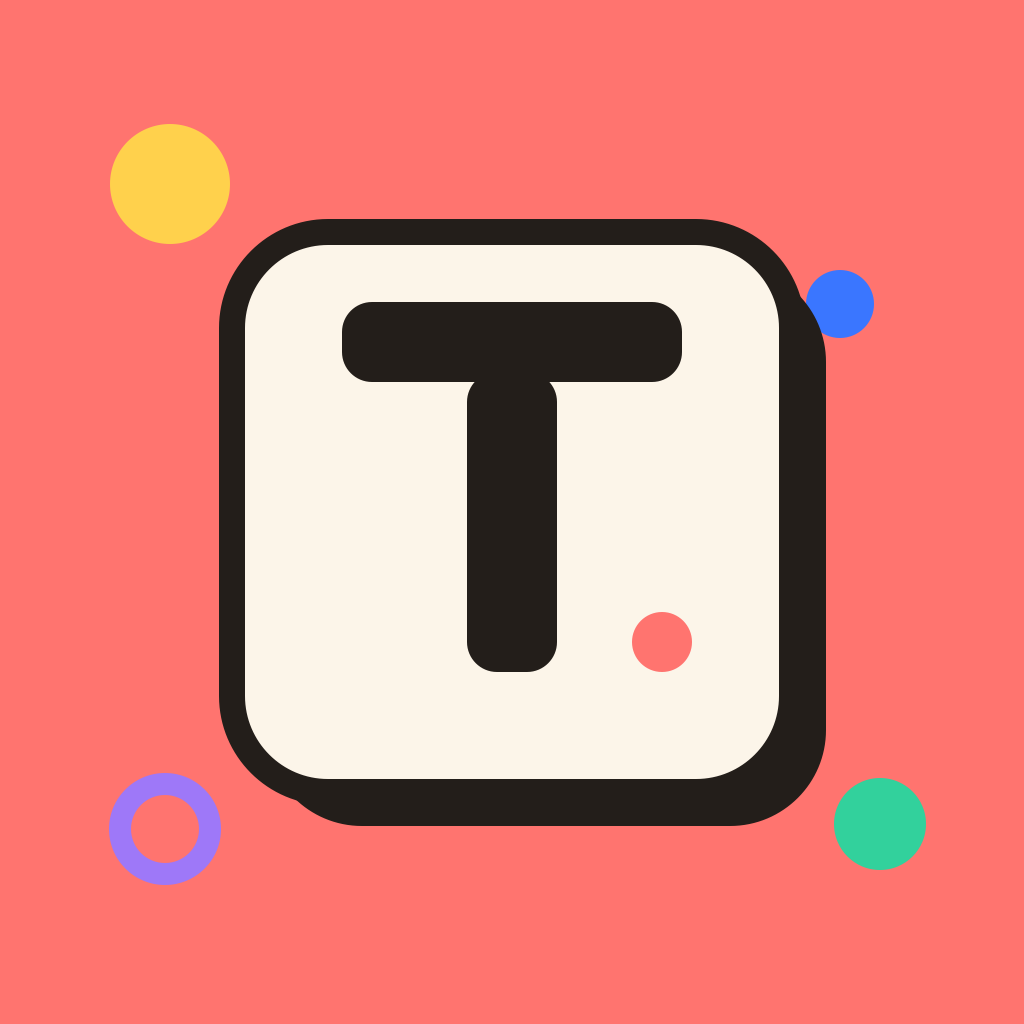
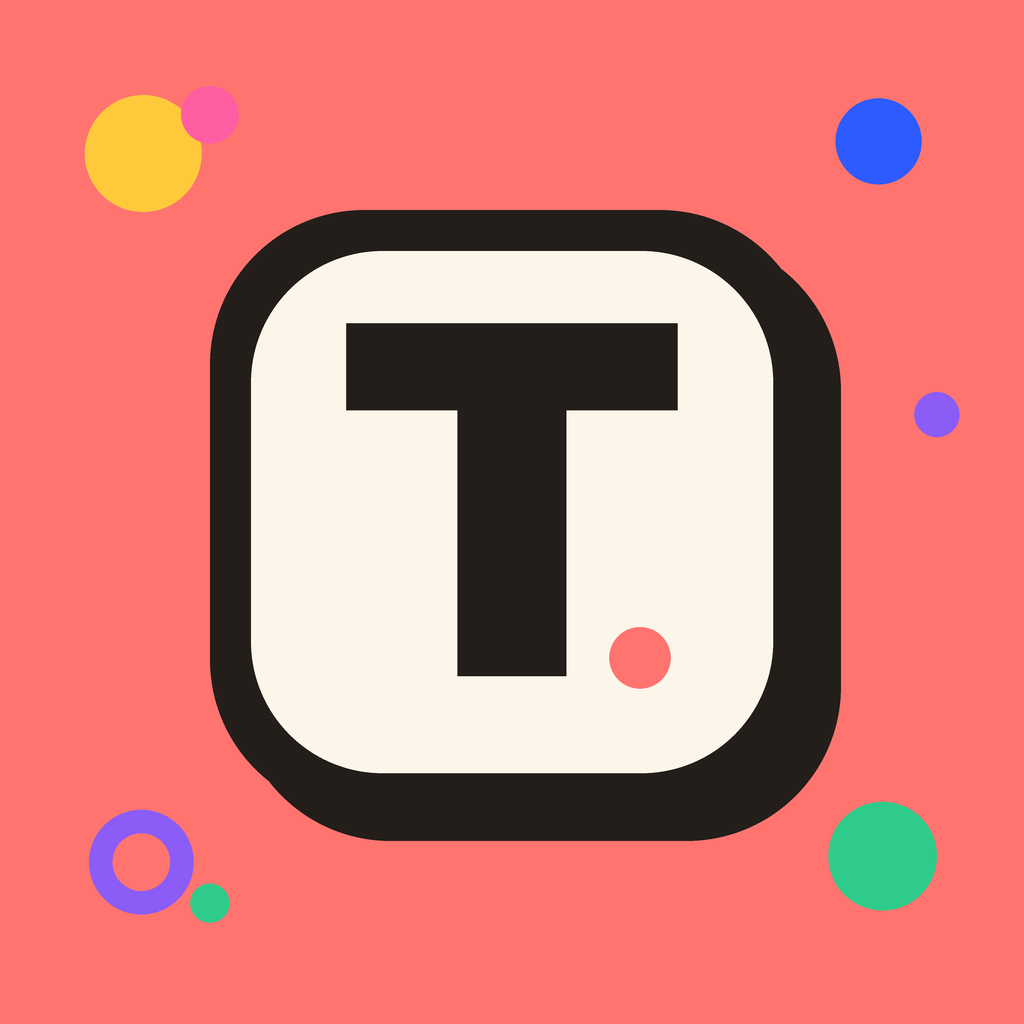
corpus: finish whole-corpus delight on Haiku (no Opus) — 15,318 delightful
Mops up the last 20 expansion batches (187-206, ~800 questions) that were still
robotic-but-correct after the previous ship, completing Ben's "make every question
delightful" pass across the entire 21,005-row corpus.

ECONOMY (Ben's directive — stop burning Opus 4.8 on grounded paraphrasing): the 20
batches were rewritten by a 20-agent workflow on HAIKU 4.5 (model:'haiku',
effort:'low') in ~137s for ~645k Haiku tokens and ZERO Opus tokens. Sample output
reads hand-written ("Nicknamed 'The Flying Finn'...", "Its Syriac name means simply
'sword'..."). This is now the standing method for all future expansion delight.

apply_delight.py merged all 464 batch files -> 15,318 delightful rewrites applied
(was 14,593); leak-guard kept 984 leaked-answer + 902 malformed on their robotic
originals — we never ship a question that names its own answer. One Haiku JSON slip
({"id":"question":"SKIP"}) was repaired + the out-files revalidated before applying.

Regenerated all 8 bundled sets. Version 1.3.2 (build 28) / Android versionCode 25,
versionName 1.3.2. iOS, tvOS, Android all build green.

Claude-Session: https://claude.ai/code/session_01HzchzVGVxky2CRiHkA2Gx7

diff --git a/docs/DELIGHT-PASS-HANDOFF.md b/docs/DELIGHT-PASS-HANDOFF.md
@@ -13,7 +13,24 @@ answerable with the existing type-matched options. Pipeline:
 batch files of {id, answer, options, summary} → LLM rewrites → `apply_delight.py`
 (leak-guarded merge) → regenerate `gen_*.py` → build → ship.
 
-## Current state (2026-06-22, ~9am MT)
+## ✅ COMPLETE (2026-06-22, v1.3.2)
+
+The whole-corpus delight pass is DONE. The final 20 expansion batches (187–206)
+were rewritten on **Haiku 4.5** (workflow `wf_acfcac11-26a`, 20 agents, ~137s,
+~645k Haiku tokens — the economical path Ben asked for; no Opus). `apply_delight.py`
+now merges all 464 batch files → **15,318 delightful rewrites applied** (984
+leaked-answer + 902 malformed kept their robotic original via the leak-guard). All
+four platforms build green at 1.3.2 / build 28 / Android v25.
+
+**The Haiku method is proven** — sample rewrites read as hand-written ("Nicknamed
+'The Flying Finn'…", "Its Syriac name means simply 'sword'…"), leak-guard held.
+For ALL future expansion delight, reuse the workflow at
+`workflows/scripts/delight-haiku-mop-up-wf_acfcac11-26a.js` (just repoint the batch
+range), `model:'haiku', effort:'low'`. One Haiku slip seen: a single item emitted
+`{"id": "question": "SKIP"}` (malformed JSON) → repair pattern is in the apply step;
+revalidate out-files with a json.load loop before applying.
+
+## Historical state (pre-completion, 2026-06-22 ~9am MT)
 
 - **Subjects:** 19,921 kept (`corpus_source.sqlite` `subject`): 11,906 Vital-Articles
   (`va_class='B/GA/FA/A'`) + 8,015 top-Qrank expansion (`va_class='qrank'`). Enriched